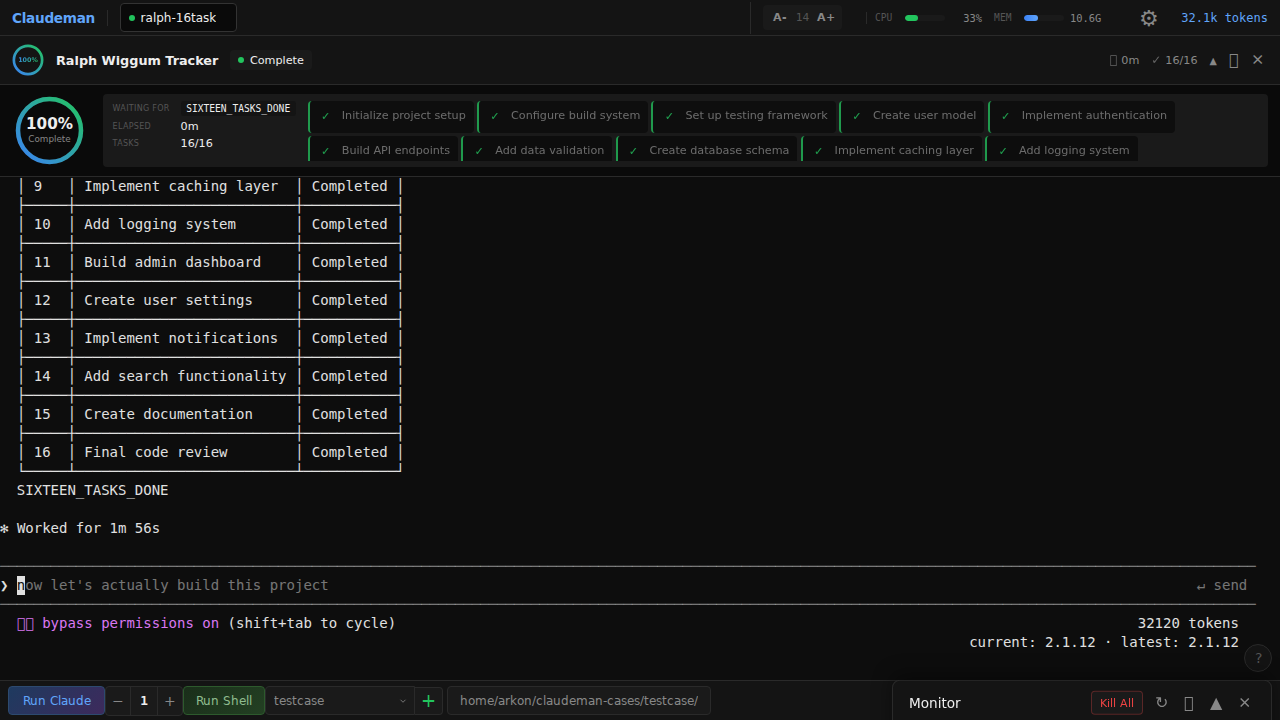
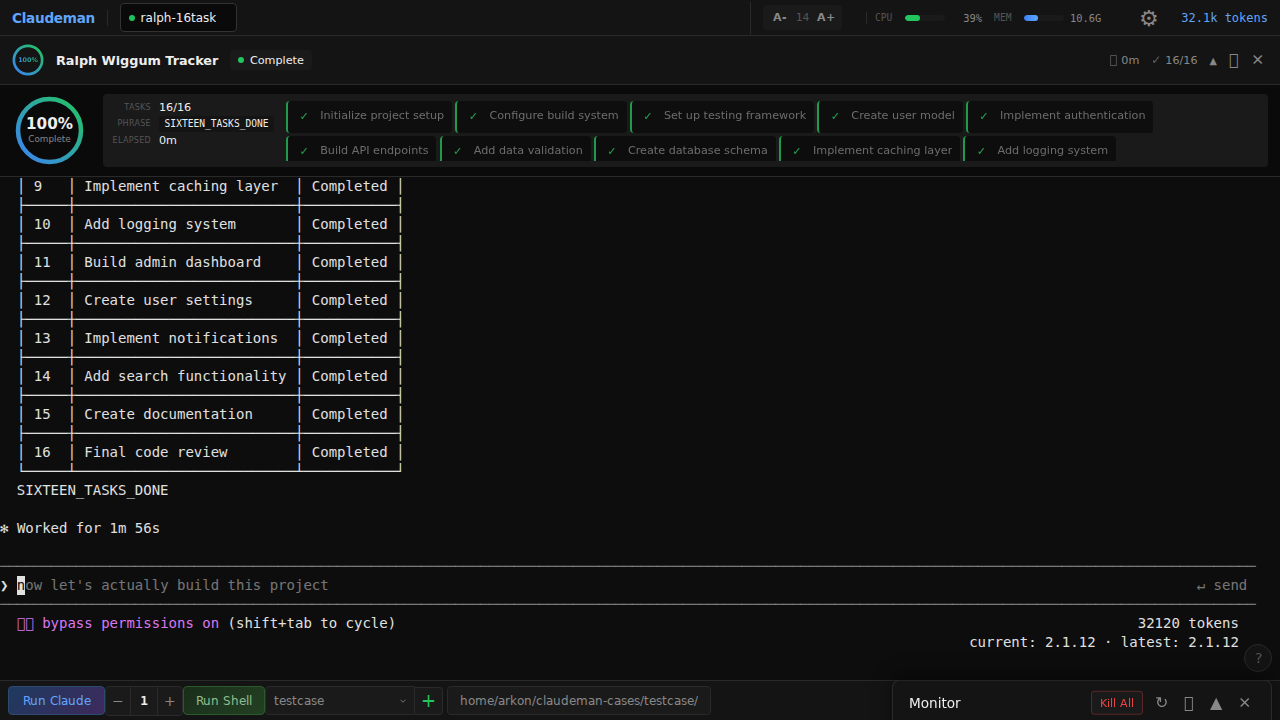
style: reorder Ralph info section - Tasks first, shorter labels
- Move Tasks to top of info section
- Rename "Waiting for" to "Phrase" for better alignment
- Order: Tasks, Phrase, Elapsed

Changed region(s): [[0.0938, 0.1222, 0.9062, 0.2139]]

diff --git a/src/web/public/index.html b/src/web/public/index.html
@@ -133,16 +133,16 @@
           <div class="ralph-info-unified">
             <div class="ralph-info-labels">
               <div class="ralph-info-row">
-                <span class="ralph-info-label">Waiting for</span>
+                <span class="ralph-info-label">Tasks</span>
+                <span class="ralph-tasks-count" id="ralphTasksCount">0/0</span>
+              </div>
+              <div class="ralph-info-row">
+                <span class="ralph-info-label">Phrase</span>
                 <code id="ralphPhrase">--</code>
               </div>
               <div class="ralph-info-row">
                 <span class="ralph-info-label">Elapsed</span>
                 <span id="ralphElapsed">0m</span>
-              </div>
-              <div class="ralph-info-row">
-                <span class="ralph-info-label">Tasks</span>
-                <span class="ralph-tasks-count" id="ralphTasksCount">0/0</span>
               </div>
             </div>
             <div class="ralph-tasks-grid" id="ralphTasksGrid"></div>
